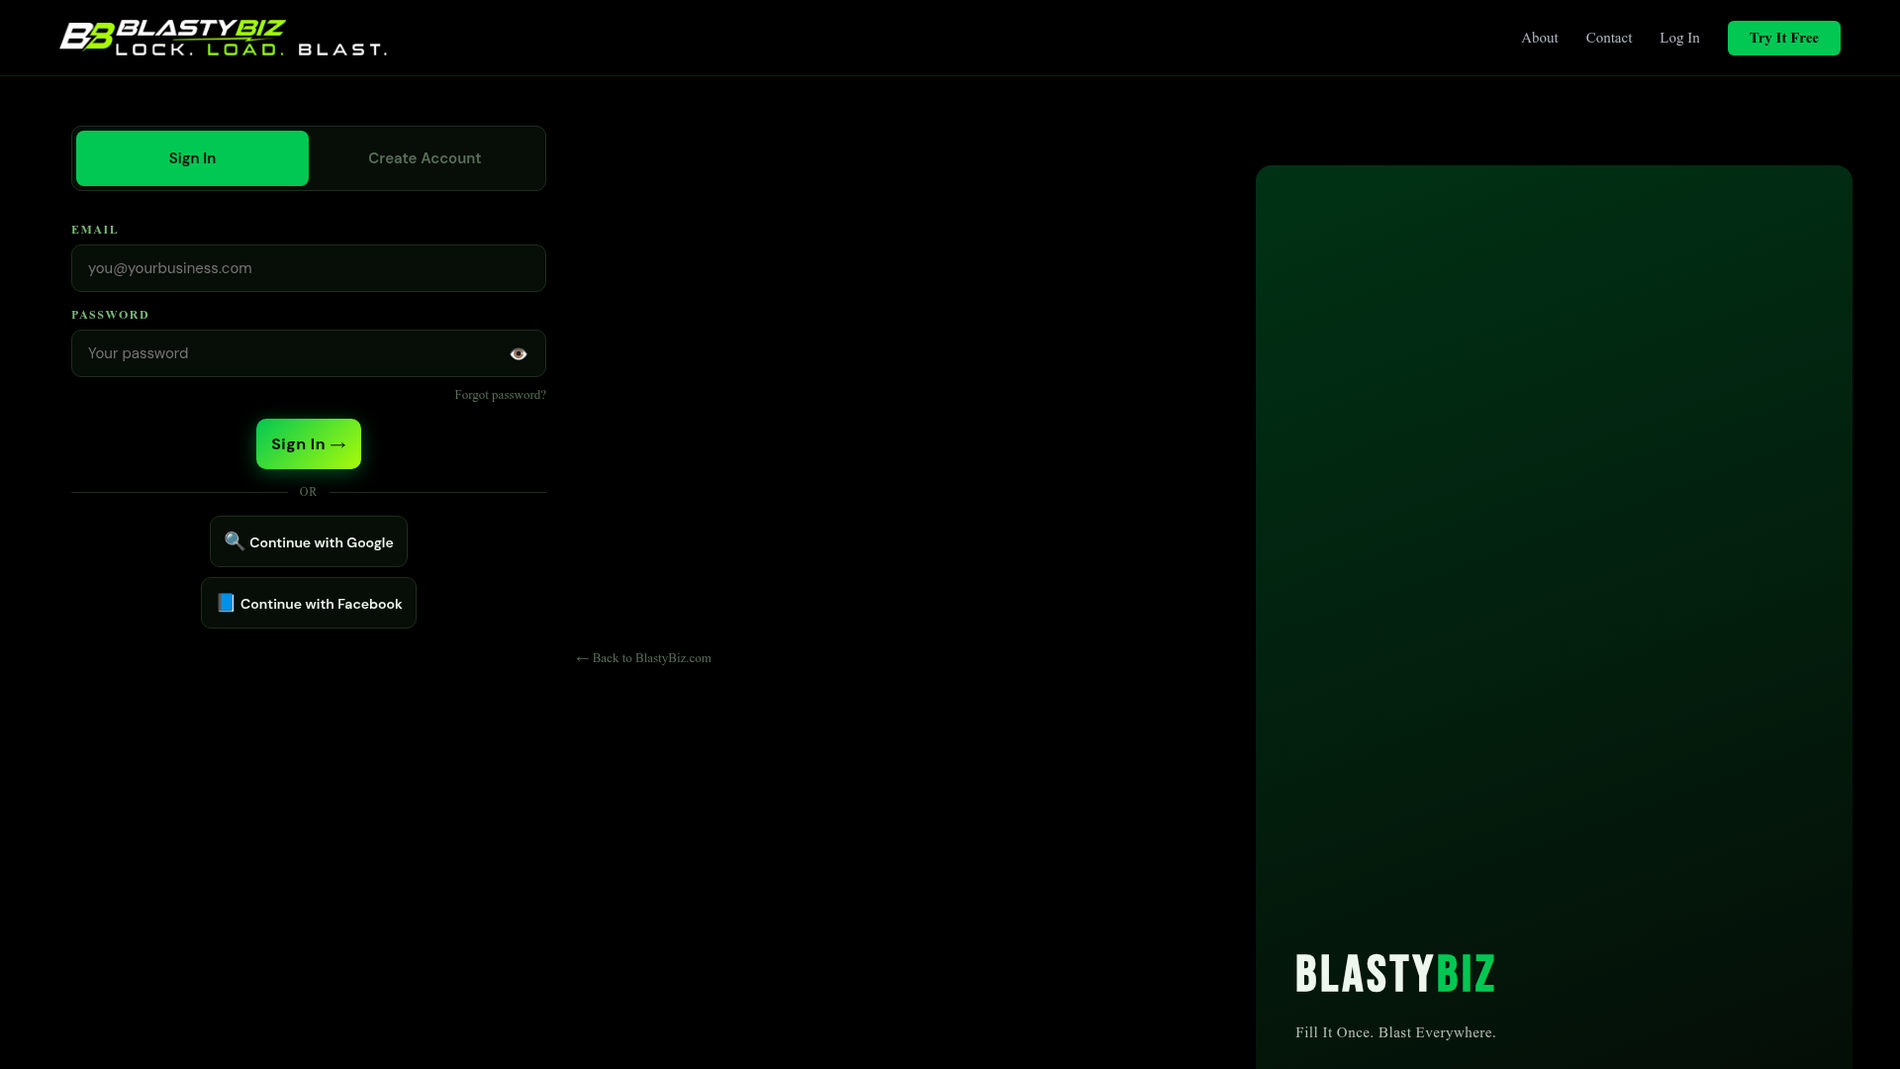
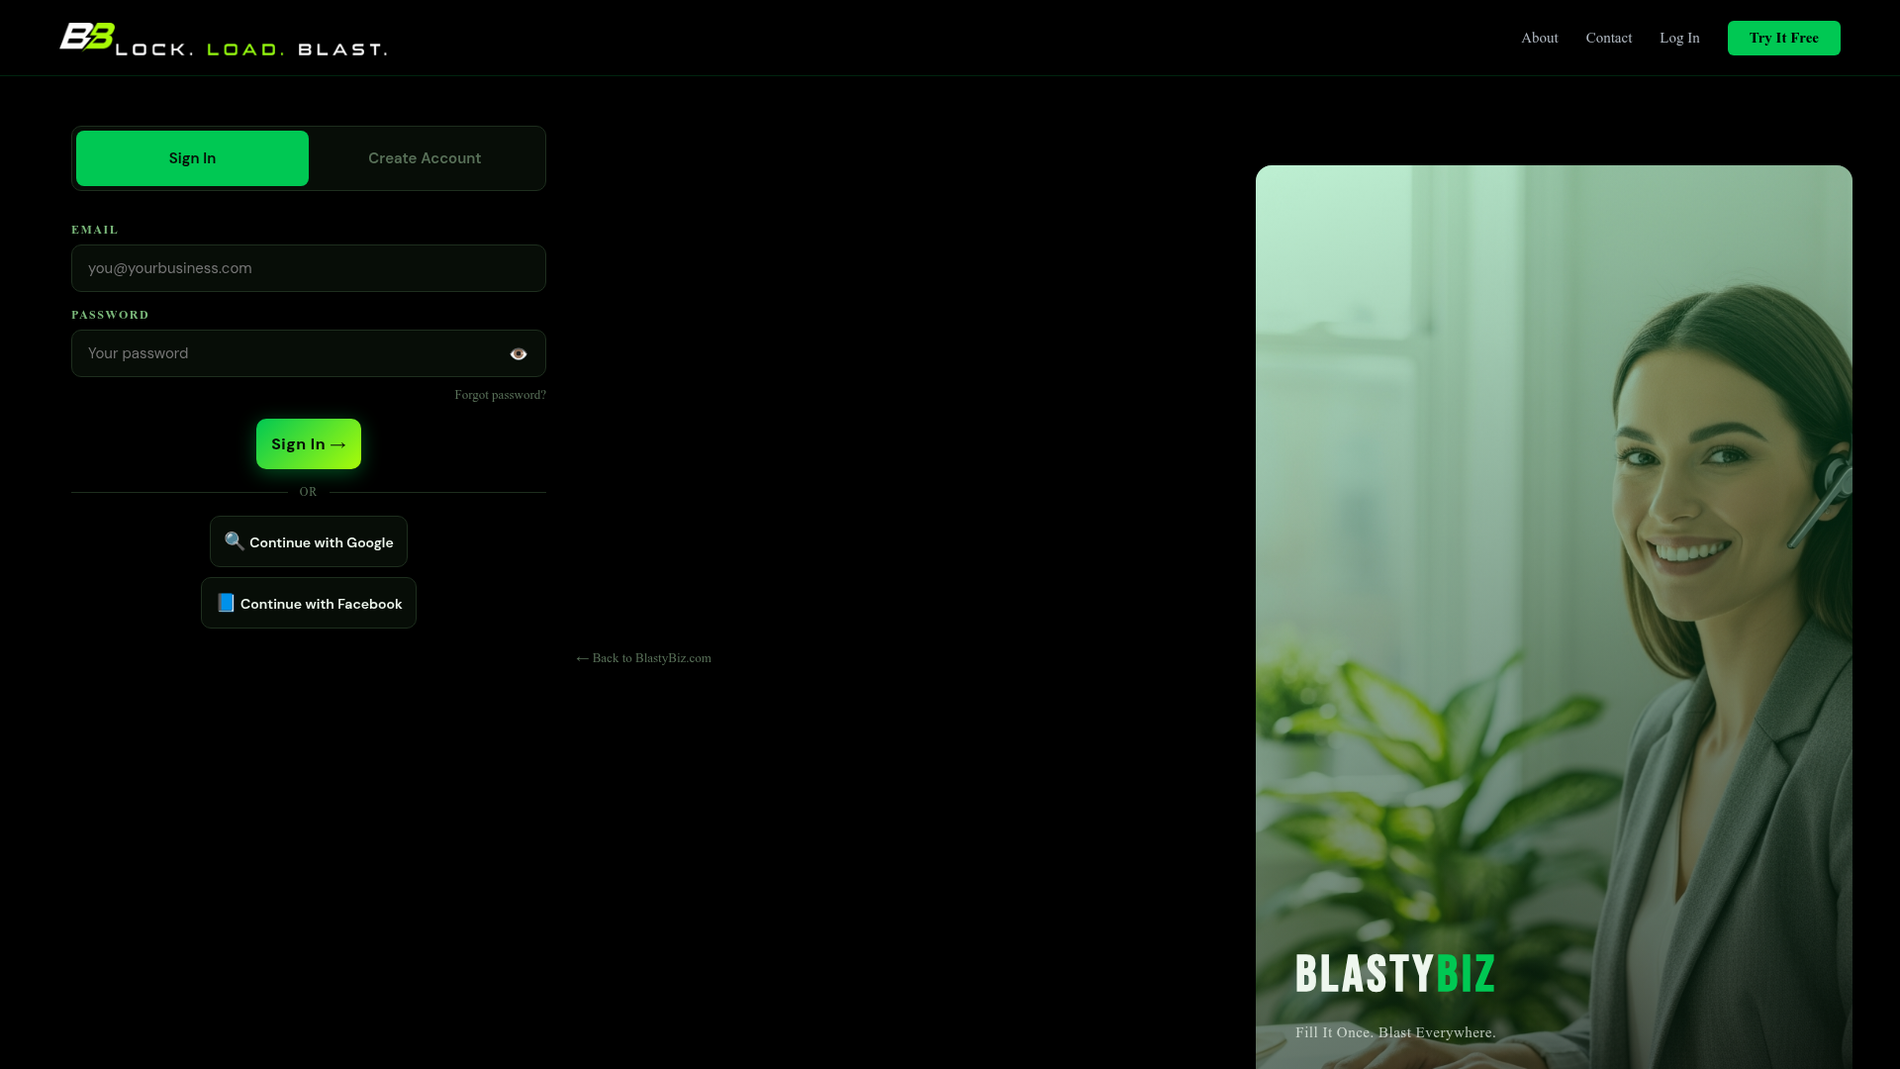
Improve layout responsiveness and fix horizontal scrolling issues across multiple pages
Update global stylesheet version and apply CSS grid fixes to resolve layout overflow problems on various pages, particularly impacting the onboarding steps editor.

Replit-Commit-Author: Agent
Replit-Commit-Session-Id: c1ac8bed-f79d-4dd1-98fc-396da5524f44
Replit-Commit-Checkpoint-Type: full_checkpoint
Replit-Commit-Event-Id: e420717d-4187-47fc-bb58-9c7e6174f767
Replit-Helium-Checkpoint-Created: true

Changed region(s): [[0.6562, 0.1528, 1.0, 1.0], [0.0625, 0.0, 0.1562, 0.0611]]

diff --git a/artifacts/api-server/public/BlastyBiz-Admin-Subscriptions.html b/artifacts/api-server/public/BlastyBiz-Admin-Subscriptions.html
@@ -1,5 +1,5 @@
 <!DOCTYPE html><html lang="en"><head>
-  <link rel="icon" type="image/x-icon" href="favicon.ico"><meta charset="UTF-8"/><meta name="viewport" content="width=device-width, initial-scale=1.0"/><title>BlastyBiz — Admin Subscriptions</title><link href="https://fonts.googleapis.com/css2?family=Bebas+Neue&family=DM+Sans:wght@300;400;500;600;700;800&display=swap" rel="stylesheet"/><link rel="stylesheet" href="global-style.css?v=1784608375366"><style>body{visibility:hidden}</style><script type="module" src="./admin-guard.js"></script><script src="blastybiz-menu.js?v=3"></script>
+  <link rel="icon" type="image/x-icon" href="favicon.ico"><meta charset="UTF-8"/><meta name="viewport" content="width=device-width, initial-scale=1.0"/><title>BlastyBiz — Admin Subscriptions</title><link href="https://fonts.googleapis.com/css2?family=Bebas+Neue&family=DM+Sans:wght@300;400;500;600;700;800&display=swap" rel="stylesheet"/><link rel="stylesheet" href="global-style.css?v=1784608863303"><style>body{visibility:hidden}</style><script type="module" src="./admin-guard.js"></script><script src="blastybiz-menu.js?v=3"></script>
 </head><body class="admin-page"><header><a class="logo" href="BlastyBiz-Home.html">BlastyBiz<span>Revenue Control</span></a><div class="top-actions"><a class="icon-btn hide-mobile " href="BlastyBiz-Admin.html">Dashboard</a><a class="icon-btn hide-mobile" href="BlastyBiz-Admin-Queue-Manager.html">Queue</a><a class="icon-btn hide-mobile " href="BlastyBiz-Admin-Failed-Jobs.html">Failed Jobs</a><a class="icon-btn hide-mobile " href="BlastyBiz-Admin-Users.html">Users</a><a class="icon-btn hide-mobile active" href="BlastyBiz-Admin-Subscriptions.html">Subscriptions</a><a class="icon-btn hide-mobile " href="BlastyBiz-Admin-Platform-Health.html">Health</a><a class="icon-btn hide-mobile " href="BlastyBiz-Admin-Logs.html">Logs</a><a class="icon-btn hide-mobile " href="BlastyBiz-Admin-Emails.html">✉ Emails</a><a class="icon-btn hide-mobile" href="BlastyBiz-Admin-Platforms.html">📋 Platforms</a><a class="icon-btn hide-mobile " href="BlastyBiz-Admin-Operate.html">Operate</a><a class="icon-btn" href="BlastyBiz-Login.html">👤</a></div></header><main><div class="main"><div class="main-inner">
 <section class="hero"><div class="card"><div class="eyebrow">Admin operating screen</div><h1 class="big-title">Subscriptions <span>& Revenue</span></h1><p class="sub">This page tracks Square status, plan mix, MRR, payment failures, trial conversions, and downgrade risk. Customers should never see margins or AI cost; this page is owner-only.</p><div class="btn-row"><button class="btn btn-primary" onclick="window.open('https://squareup.com/dashboard/sales/transactions','_blank')">Open Square Dashboard</button><button class="btn" id="btn-send-recovery" onclick="sendRecoveryEmails()">Send Recovery Emails</button><button class="btn" id="btn-export-csv" onclick="exportBillingCsv()">Export Billing CSV</button></div><span id="recovery-status" class="pricing-status"></span></div><div class="card"><div class="card-title">💳 Money Snapshot</div><div class="list"><div class="list-item"><div class="icon">$</div><div class="row-main"><div class="row-title" id="snapshot-mrr">$0 MRR</div><div class="row-sub">Live recurring revenue from active subscriptions.</div></div><span class="badge live">MRR</span></div><div class="list-item"><div class="icon">!</div><div class="row-main"><div class="row-title" id="snapshot-pastdue">0 past due</div><div class="row-sub">Recover before downgrade or cancel.</div></div><span class="badge needs">Action</span></div></div></div></section>
 <section class="mb-10"><div class="demo-notice"><span>ℹ</span><span><strong>Live data</strong> — MRR, AI Spend, Gross Margin, and Trials are computed from Firestore in real time (no placeholders).</span></div></section><section class="grid"><div class="stat"><div class="stat-num" id="stat-mrr">$0</div><div class="stat-label">MRR</div><div class="stat-note money">Monthly recurring</div></div><div class="stat"><div class="stat-num" id="stat-aispend">$0.00</div><div class="stat-label">AI Spend</div><div class="stat-note money">This calendar month</div></div><div class="stat"><div class="stat-num" id="stat-margin">—</div><div class="stat-label">Gross Margin</div><div class="stat-note money">Target > 75%</div></div><div class="stat"><div class="stat-num" id="stat-trials">0</div><div class="stat-label">Trials Ending</div><div class="stat-note blue">Next 7 days</div></div></section>

diff --git a/artifacts/api-server/public/BlastyBiz-Admin-Failed-Jobs.html b/artifacts/api-server/public/BlastyBiz-Admin-Failed-Jobs.html
@@ -1,5 +1,5 @@
 <!DOCTYPE html><html lang="en"><head>
-  <link rel="icon" type="image/x-icon" href="favicon.ico"><meta charset="UTF-8"/><meta name="viewport" content="width=device-width, initial-scale=1.0"/><title>BlastyBiz — Admin Failed Jobs</title><link href="https://fonts.googleapis.com/css2?family=Bebas+Neue&family=DM+Sans:wght@300;400;500;600;700;800&display=swap" rel="stylesheet"/><link rel="stylesheet" href="global-style.css?v=1784608375366"><style>body{visibility:hidden}</style><script type="module" src="./admin-guard.js"></script><script src="blastybiz-menu.js?v=3"></script>
+  <link rel="icon" type="image/x-icon" href="favicon.ico"><meta charset="UTF-8"/><meta name="viewport" content="width=device-width, initial-scale=1.0"/><title>BlastyBiz — Admin Failed Jobs</title><link href="https://fonts.googleapis.com/css2?family=Bebas+Neue&family=DM+Sans:wght@300;400;500;600;700;800&display=swap" rel="stylesheet"/><link rel="stylesheet" href="global-style.css?v=1784608863303"><style>body{visibility:hidden}</style><script type="module" src="./admin-guard.js"></script><script src="blastybiz-menu.js?v=3"></script>
 </head><body class="admin-page"><header><a class="logo" href="BlastyBiz-Home.html">BlastyBiz<span>Failed Jobs Queue</span></a><div class="top-actions"><a class="icon-btn hide-mobile " href="BlastyBiz-Admin.html">Dashboard</a><a class="icon-btn hide-mobile" href="BlastyBiz-Admin-Queue-Manager.html">Queue</a><a class="icon-btn hide-mobile active" href="BlastyBiz-Admin-Failed-Jobs.html">Failed Jobs</a><a class="icon-btn hide-mobile " href="BlastyBiz-Admin-Users.html">Users</a><a class="icon-btn hide-mobile " href="BlastyBiz-Admin-Subscriptions.html">Subscriptions</a><a class="icon-btn hide-mobile " href="BlastyBiz-Admin-Platform-Health.html">Health</a><a class="icon-btn hide-mobile " href="BlastyBiz-Admin-Logs.html">Logs</a><a class="icon-btn hide-mobile " href="BlastyBiz-Admin-Emails.html">✉ Emails</a><a class="icon-btn hide-mobile" href="BlastyBiz-Admin-Platforms.html">📋 Platforms</a><a class="icon-btn hide-mobile " href="BlastyBiz-Admin-Operate.html">Operate</a><a class="icon-btn" href="BlastyBiz-Login.html">👤</a></div></header><main><div class="main"><div class="main-inner">
 <section class="hero"><div class="card"><div class="eyebrow">Admin operating screen</div><h1 class="big-title">Failed Jobs <span>Queue</span></h1><p class="sub">This is where the admin fixes publishing, sync, AI, image, billing, and platform jobs that did not complete. Keep the language clear: what failed, why it failed, and what the admin should do next.</p><div class="btn-row"><button id="retry-selected-btn" class="btn btn-primary" onclick="retrySelected()">Retry Selected</button><button id="manual-followup-btn" class="btn" onclick="manualFollowupSelected()">Mark Manual Follow-up</button><button id="close-selected-btn" class="btn" onclick="closeSelected()">Close Selected</button><button id="export-errors-btn" class="btn" onclick="exportErrors()">Export Errors</button></div></div><div class="card"><div class="card-title">⚠ Queue Summary</div><div class="list"><div class="list-item"><div class="icon" id="hero-open-count">—</div><div class="row-main"><div class="row-title">Open failed jobs</div><div class="row-sub" id="hero-open-sub">Loading…</div></div><span class="badge error">Open</span></div><div class="list-item"><div class="icon">4</div><div class="row-main"><div class="row-title">Auto retries scheduled</div><div class="row-sub">Retry only safe jobs. Never double-post without a dedupe key.</div></div><span class="badge info">Queued</span></div></div></div></section>
 <section class="grid"><div class="stat"><div class="stat-num">3</div><div class="stat-label">Retryable</div><div class="stat-note money">System can retry</div></div><div class="stat"><div class="stat-num">2</div><div class="stat-label">Reconnect Needed</div><div class="stat-note warn">OAuth/customer action</div></div><div class="stat"><div class="stat-num">1</div><div class="stat-label">Validation</div><div class="stat-note bad">Fix field/category</div></div><div class="stat"><div class="stat-num">1</div><div class="stat-label">AI/Image</div><div class="stat-note blue">Regenerate or resize</div></div></section>

diff --git a/artifacts/api-server/public/BlastyBiz-Admin-Users.html b/artifacts/api-server/public/BlastyBiz-Admin-Users.html
@@ -1,5 +1,5 @@
 <!DOCTYPE html><html lang="en"><head>
-  <link rel="icon" type="image/x-icon" href="favicon.ico"><meta charset="UTF-8"/><meta name="viewport" content="width=device-width, initial-scale=1.0"/><title>BlastyBiz — Admin Users</title><link href="https://fonts.googleapis.com/css2?family=Bebas+Neue&family=DM+Sans:wght@300;400;500;600;700;800&display=swap" rel="stylesheet"/><link rel="stylesheet" href="global-style.css?v=1784608375366"><style>body{visibility:hidden}</style><script type="module" src="./admin-guard.js"></script><script src="blastybiz-menu.js?v=3"></script>
+  <link rel="icon" type="image/x-icon" href="favicon.ico"><meta charset="UTF-8"/><meta name="viewport" content="width=device-width, initial-scale=1.0"/><title>BlastyBiz — Admin Users</title><link href="https://fonts.googleapis.com/css2?family=Bebas+Neue&family=DM+Sans:wght@300;400;500;600;700;800&display=swap" rel="stylesheet"/><link rel="stylesheet" href="global-style.css?v=1784608863303"><style>body{visibility:hidden}</style><script type="module" src="./admin-guard.js"></script><script src="blastybiz-menu.js?v=3"></script>
 </head><body class="admin-page"><header><a class="logo" href="BlastyBiz-Home.html">BlastyBiz<span>Users Control</span></a><div class="top-actions"><a class="icon-btn hide-mobile " href="BlastyBiz-Admin.html">Dashboard</a><a class="icon-btn hide-mobile" href="BlastyBiz-Admin-Queue-Manager.html">Queue</a><a class="icon-btn hide-mobile " href="BlastyBiz-Admin-Failed-Jobs.html">Failed Jobs</a><a class="icon-btn hide-mobile active" href="BlastyBiz-Admin-Users.html">Users</a><a class="icon-btn hide-mobile " href="BlastyBiz-Admin-Subscriptions.html">Subscriptions</a><a class="icon-btn hide-mobile " href="BlastyBiz-Admin-Platform-Health.html">Health</a><a class="icon-btn hide-mobile " href="BlastyBiz-Admin-Logs.html">Logs</a><a class="icon-btn hide-mobile " href="BlastyBiz-Admin-Emails.html">✉ Emails</a><a class="icon-btn hide-mobile" href="BlastyBiz-Admin-Platforms.html">📋 Platforms</a><a class="icon-btn hide-mobile " href="BlastyBiz-Admin-Operate.html">Operate</a><a class="icon-btn" href="BlastyBiz-Login.html">👤</a></div></header><main><div class="main"><div class="main-inner">
 <section class="hero"><div class="card"><div class="eyebrow">Admin operating screen</div><h1 class="big-title">Users & Businesses <span>Control</span></h1><p class="sub">Manage business accounts without confusing technical clutter. This page answers: who owns the business, what plan they are on, whether they are active, and what needs attention.</p><div class="btn-row"><button class="btn btn-primary">Add Business</button><button class="btn">Export Users</button><button class="btn">View Trial Risks</button></div></div><div class="card"><div class="card-title">👥 Account Summary</div><div class="list"><div class="list-item"><div class="icon">64</div><div class="row-main"><div class="row-title">Total businesses</div><div class="row-sub">42 active paid or free, 22 trial.</div></div><span class="badge live">Live</span></div><div class="list-item"><div class="icon">8</div><div class="row-main"><div class="row-title">Need admin attention</div><div class="row-sub">Disconnected platforms, past-due accounts, or incomplete onboarding.</div></div><span class="badge needs">Watch</span></div></div></div></section>
 <section class="grid"><div class="stat"><div class="stat-num">42</div><div class="stat-label">Active</div><div class="stat-note money">Using BlastyBiz</div></div><div class="stat"><div class="stat-num">22</div><div class="stat-label">Trial</div><div class="stat-note blue">Conversion pool</div></div><div class="stat"><div class="stat-num">9</div><div class="stat-label">Past Due</div><div class="stat-note warn">Billing risk</div></div><div class="stat"><div class="stat-num">6</div><div class="stat-label">Incomplete</div><div class="stat-note bad">Onboarding stuck</div></div></section>

diff --git a/artifacts/api-server/public/BlastyBiz-Admin-OnboardSteps.html b/artifacts/api-server/public/BlastyBiz-Admin-OnboardSteps.html
@@ -6,12 +6,12 @@
   <meta name="viewport" content="width=device-width, initial-scale=1.0"/>
   <title>BlastyBiz — Onboard Step Editor</title>
   <link href="https://fonts.googleapis.com/css2?family=Bebas+Neue&family=DM+Sans:wght@300;400;500;600;700;800&display=swap" rel="stylesheet"/>
-  <link rel="stylesheet" href="global-style.css?v=1784608375366">
+  <link rel="stylesheet" href="global-style.css?v=1784608863303">
   <style>
     body { visibility: hidden }
-    .ose-outer-grid { display:grid; grid-template-columns:1fr 200px; gap:24px; align-items:start; }
+    .ose-outer-grid { display:grid; grid-template-columns:minmax(0,1fr) 200px; gap:24px; align-items:start; }
     @media (max-width:880px) {
-      .ose-outer-grid { grid-template-columns:1fr; }
+      .ose-outer-grid { grid-template-columns:minmax(0,1fr); }
       .ose-preview {
         position:fixed; bottom:0; left:0; right:0;
         z-index:500; background:#0d1f3c;
@@ -78,6 +78,12 @@
     #pb-mascot svg { width:160px; height:auto; overflow:visible; }
     .prev-cap { font-size:12px; color:#9ca3af; margin-top:8px; min-height:16px; }
 
+
+    /* Grid overflow fix — step list must not blow out the 1fr column */
+    .ose-outer-grid > div { min-width: 0; overflow-x: hidden; }
+    .step-card { max-width: 100%; }
+    .asg select { max-width: 100%; }
+    .msg-row { max-width: 100%; }
     /* ── Mobile: full-width, no overflow ── */
     @media (max-width:880px) {
       body.admin-page .main-inner { padding: 10px 8px !important; }

diff --git a/artifacts/api-server/public/BlastyBiz-Admin-Platform-Health.html b/artifacts/api-server/public/BlastyBiz-Admin-Platform-Health.html
@@ -1,5 +1,5 @@
 <!DOCTYPE html><html lang="en"><head>
-  <link rel="icon" type="image/x-icon" href="favicon.ico"><meta charset="UTF-8"/><meta name="viewport" content="width=device-width, initial-scale=1.0"/><title>BlastyBiz — Admin Platform Health</title><link href="https://fonts.googleapis.com/css2?family=Bebas+Neue&family=DM+Sans:wght@300;400;500;600;700;800&display=swap" rel="stylesheet"/><link rel="stylesheet" href="global-style.css?v=1784608375366"><style>body{visibility:hidden}
+  <link rel="icon" type="image/x-icon" href="favicon.ico"><meta charset="UTF-8"/><meta name="viewport" content="width=device-width, initial-scale=1.0"/><title>BlastyBiz — Admin Platform Health</title><link href="https://fonts.googleapis.com/css2?family=Bebas+Neue&family=DM+Sans:wght@300;400;500;600;700;800&display=swap" rel="stylesheet"/><link rel="stylesheet" href="global-style.css?v=1784608863303"><style>body{visibility:hidden}
 .filter-row{display:flex;gap:8px;align-items:center;flex-wrap:wrap;margin-bottom:14px}
 .filter-row select,.filter-row input{padding:6px 10px;border:1px solid #ddd;border-radius:6px;font-size:13px;font-family:inherit}
 .filter-row input{flex:1;min-width:160px}

diff --git a/artifacts/api-server/public/BlastyBiz-Home.html b/artifacts/api-server/public/BlastyBiz-Home.html
@@ -4,7 +4,7 @@
   <link rel="icon" type="image/x-icon" href="favicon.ico">
 <meta charset="UTF-8"/>
 <meta name="viewport" content="width=device-width, initial-scale=1.0"/>
-<link rel="stylesheet" href="global-style.css?v=1784608375366" />
+<link rel="stylesheet" href="global-style.css?v=1784608863303" />
 <title>BlastyBiz — Lock. Load. Blast.</title>
 <meta name="description" content="BlastyBiz is an online software platform (SaaS) for local businesses. No physical location. Fill out one form, AI adapts your listing for every major platform, then auto-posts or generates copy-paste content." />
 <link href="https://fonts.googleapis.com/css2?family=Bebas+Neue&family=DM+Sans:ital,wght@0,300;0,400;0,500;0,600;0,700;1,400&display=swap" rel="stylesheet"/>

diff --git a/artifacts/api-server/public/BlastyBiz-Trial.html b/artifacts/api-server/public/BlastyBiz-Trial.html
@@ -5,7 +5,7 @@
   <meta name="viewport" content="width=device-width, initial-scale=1.0"/>
   <link rel="icon" type="image/x-icon" href="favicon.ico">
   <meta name="description" content="Try BlastyBiz free — no credit card, no password. Say hi to Blasty and get your magic link in seconds."/>
-  <link rel="stylesheet" href="global-style.css?v=1784608375366"/>
+  <link rel="stylesheet" href="global-style.css?v=1784608863303"/>
   <title>BlastyBiz — Try Free</title>
   <link href="https://fonts.googleapis.com/css2?family=Bebas+Neue&family=DM+Sans:ital,wght@0,300;0,400;0,500;0,600;0,700&display=swap" rel="stylesheet"/>
   <script src="blastybiz-menu.js?v=3"></script>

diff --git a/artifacts/api-server/public/BlastyBiz-Plan-Pro.html b/artifacts/api-server/public/BlastyBiz-Plan-Pro.html
@@ -11,7 +11,7 @@
   <meta property="og:description" content="Unlimited listings, AI-adapted copy for every major platform, auto-posting for connected platforms. Saved profile and post history. $19/month."/>
   <meta property="og:type" content="website"/>
   <link href="https://fonts.googleapis.com/css2?family=Bebas+Neue&family=DM+Sans:ital,wght@0,300;0,400;0,500;0,600;0,700;1,400&display=swap" rel="stylesheet"/>
-  <link rel="stylesheet" href="global-style.css?v=1784608375366"/>
+  <link rel="stylesheet" href="global-style.css?v=1784608863303"/>
   <script type="application/ld+json">
   {
     "@context": "https://schema.org",

diff --git a/artifacts/api-server/public/BlastyBiz-AI.html b/artifacts/api-server/public/BlastyBiz-AI.html
@@ -11,7 +11,7 @@
   <meta property="og:description" content="Five layers of context feed the AI before it writes a single word. The result is copy that sounds like your business — not a template."/>
   <meta property="og:type" content="website"/>
   <link href="https://fonts.googleapis.com/css2?family=Bebas+Neue&family=DM+Sans:ital,wght@0,300;0,400;0,500;0,600;0,700;1,400&display=swap" rel="stylesheet"/>
-  <link rel="stylesheet" href="global-style.css?v=1784608375366"/>
+  <link rel="stylesheet" href="global-style.css?v=1784608863303"/>
   <script type="application/ld+json">
   {
     "@context": "https://schema.org",

diff --git a/artifacts/api-server/public/BlastyBiz-About.html b/artifacts/api-server/public/BlastyBiz-About.html
@@ -7,7 +7,7 @@
 <meta name="description" content="BlastyBiz is the AI-powered marketing tool built for local business owners. Fill out one form and get AI-adapted copy for every major platform instantly."/>
 <title>About — BlastyBiz</title>
 <link href="https://fonts.googleapis.com/css2?family=Bebas+Neue&family=DM+Sans:ital,wght@0,300;0,400;0,500;0,600;0,700;1,400&display=swap" rel="stylesheet"/>
-<link rel="stylesheet" href="global-style.css?v=1784608375366"/>
+<link rel="stylesheet" href="global-style.css?v=1784608863303"/>
 <script src="blastybiz-menu.js?v=3"></script>
 </head>
 <body class="has-site-header">

diff --git a/artifacts/api-server/public/BlastyBiz-Onboard2.html b/artifacts/api-server/public/BlastyBiz-Onboard2.html
@@ -5,7 +5,7 @@
   <meta name="viewport" content="width=device-width, initial-scale=1.0"/>
   <link rel="icon" type="image/x-icon" href="favicon.ico">
   <meta name="description" content="Set up your BlastyBiz business profile."/>
-  <link rel="stylesheet" href="global-style.css?v=1784608375366"/>
+  <link rel="stylesheet" href="global-style.css?v=1784608863303"/>
   <title>BlastyBiz — Your Business</title>
   <link href="https://fonts.googleapis.com/css2?family=Bebas+Neue&family=DM+Sans:ital,wght@0,300;0,400;0,500;0,600;0,700&display=swap" rel="stylesheet"/>
   <script src="blastybiz-menu.js?v=3"></script>

diff --git a/artifacts/api-server/public/BlastyBiz-Plan-Agency.html b/artifacts/api-server/public/BlastyBiz-Plan-Agency.html
@@ -11,7 +11,7 @@
   <meta property="og:description" content="Manage up to 10 businesses under one login. AI-adapted listings and auto-posting for connected platforms. $99/month."/>
   <meta property="og:type" content="website"/>
   <link href="https://fonts.googleapis.com/css2?family=Bebas+Neue&family=DM+Sans:ital,wght@0,300;0,400;0,500;0,600;0,700;1,400&display=swap" rel="stylesheet"/>
-  <link rel="stylesheet" href="global-style.css?v=1784608375366"/>
+  <link rel="stylesheet" href="global-style.css?v=1784608863303"/>
   <script type="application/ld+json">
   {
     "@context": "https://schema.org",
